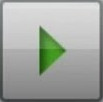
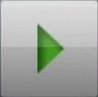
Tweak display of of interactive reels
-added hover layer to buttons via positioning
absolute div.
-fixed track height responsiveness
-tweaked reel timings and fun station flex ratio

diff --git a/interactive.css b/interactive.css
@@ -1,14 +1,46 @@
-.fs-play, .fs-stop, .sfc-play, .sfc-stop {
+.button-container {
+    display: flex;
+    gap: 10px;
+    justify-content: center;
+
+    margin-top: 30px;
+    margin-bottom: 10px;
+}
+
+.play-container, .stop-container {
     position: relative;
     width: calc(30px + 4vw);
     height: calc(30px + 4vw);
 
+    display: inline-block;
     border-radius: 10%;
 }
 
-.fs-play:hover{
-    background-color: aliceblue;
+.fs-play, .fs-stop, .sfc-play, .sfc-stop {
+    height: 100%;
+    width: 100%;    
+}
 
+.overlay {
+    background-color: white;
+    height: 100%;
+    width: 100%;
+    position: absolute;
+    top: 0;
+    right: 0;
+    left: 0;
+    bottom: 0;  
+    opacity: 0;
+    border-radius: 10%;
+}
+
+.play-container:hover .overlay, .stop-container:hover .overlay {
+    opacity: 0.3;
+}
+
+.play-container:active .overlay, .stop-container:active .overlay {
+    opacity: 0.3;
+    background-color: black;
 }
 
 .sfc, .fun-station {
@@ -18,6 +50,7 @@
     display: flex;
     flex-direction: column;
     gap: 2px;
+    margin-bottom: 50px;
 
     border: 10px solid black;
     border-radius: 10px;
@@ -50,7 +83,7 @@
     }
 
     .sfc div, .fun-station div {
-        height: calc(46vw / 10);
+        height: calc(46vw / 11.25);
     }
 
     .sfc-playhead, .fs-playhead {
@@ -167,27 +200,27 @@
 }
 
 .fs-4 .one {
-    flex: 4;
-}
-
-.fs-4 .two {
     flex: 6;
 }
 
+.fs-4 .two {
+    flex: 10;
+}
+
 .fs-4 .three {
-    flex: 2;
+    flex: 4;
 }
 
 .fs-4 .four {
-    flex: 5;
+    flex: 10;
 }
 
 .fs-4 .five {
-    flex: 4;
+    flex: 10;
 }
 
 .fs-4 .six {
-    flex: 4;
+    flex: 10;
 }
 
 .fs-5 .clip {
@@ -219,7 +252,7 @@
 }
 
 .fs-5 .five {
-    flex: 10;
+    flex: 15;
 }
 
 .fs-6 .clip {
@@ -235,7 +268,7 @@
 }
 
 .fs-6 .one {
-    flex: 2;
+    flex: 3;
 }
 
 .fs-6 .two {
@@ -247,7 +280,7 @@
 }
 
 .fs-6 .four {
-    flex: 2;
+    flex: 6;
 }
 
 .fs-6 .five {
@@ -255,7 +288,7 @@
 }
 
 .fs-6 .six {
-    flex: 2;
+    flex: 5 ;
 }
 
 .fs-7 .clip {
@@ -271,7 +304,7 @@
 }
 
 .fs-7 .one {
-    flex: 2;
+    flex: 3;
 }
 
 .fs-7 .two {
@@ -279,7 +312,7 @@
 }
 
 .fs-7 .three {
-    flex: 8;
+    flex: 15;
 }
 
 .fs-7 .four {
@@ -287,7 +320,7 @@
 }
 
 .fs-7 .five {
-    flex: 9;
+    flex: 13;
 }
 
 .fs-8 .clip {

diff --git a/index.html b/index.html
@@ -20,8 +20,14 @@
                 <h1>Interactive Reels</h1>
                 <p>I'm always excited to share the process with people, so I've created a few interactive examples of what we do in the post audio world. Have fun!</p>
             <div class="button-container">
-                <img class="fs-play" src="images/play.jpg" alt="play button">
-                <img class="fs-stop" src="images/stop.jpg" alt="stop button">
+                <div class="play-container">
+                    <img class="fs-play" src="images/play.jpg" alt="play button">
+                    <div class="fs play overlay"></div>
+                </div>
+                <div class="stop-container">
+                    <img class="fs-stop" src="images/stop.jpg" alt="stop button">
+                    <div class="fs stop overlay"></div>
+                </div>
             </div>
             <div class="interactive">
                 <div class="fs-playhead"></div>
@@ -85,8 +91,14 @@
                     </div>
             </div>
             <div class="button-container">
-                <img class="sfc-play" src="images/play.jpg" alt="play button">
-                <img class="sfc-stop" src="images/stop.jpg" alt="stop button">
+                <div class="play-container">
+                    <img class="sfc-play" src="images/play.jpg" alt="play button">
+                    <div class="stupid play overlay"></div>
+                </div>
+                <div class="stop-container">
+                    <img class="sfc-stop" src="images/stop.jpg" alt="stop button">
+                    <div class="stupid stop overlay"></div>
+                </div>
             </div>
             </div>
             <div class="sfc">

diff --git a/script.js b/script.js
@@ -14,12 +14,12 @@ function playAudio (id) {
     audio.play();
 }
 
-const sfcPlay = document.querySelector('.sfc-play');
-const sfcStop = document.querySelector('.sfc-stop');
+const sfcPlay = document.querySelector('.stupid.play.overlay');
+const sfcStop = document.querySelector('.stupid.stop.overlay');
 const sfcHead = document.querySelector('.sfc-playhead');
 
-const fsPlay = document.querySelector('.fs-play');
-const fsStop = document.querySelector('.fs-stop');
+const fsPlay = document.querySelector('.fs.play.overlay');
+const fsStop = document.querySelector('.fs.stop.overlay');
 const fsHead = document.querySelector('.fs-playhead');
 const fsReel = document.querySelector('.fun-station');
 
@@ -62,7 +62,7 @@ function moveSfcHead() {
             clearInterval(timer);
             resetPosition();
         }
-    },170);
+    },145);
 }
 
 function resetPosition() {
@@ -104,7 +104,7 @@ function moveFSHead() {
             clearInterval(timer);
             resetFSPosition();
         }
-    },210);
+    },190   );
 }
 
 function resetFSPosition() {

diff --git a/README.md b/README.md
@@ -1,10 +1,11 @@
 Practicing building a website for sound editing and design
 
 Most Recent Commit:
--change play and stop buttons to images
+-added hover layer to buttons via positioning
+absolute div.
+-fixed track height responsiveness
+-tweaked reel timings and fun station flex ratio
 
 To do:
 -play and stop buttons stop clip audio
 -fix DOM layout
--add hover and play style to buttons
-with additional transparent layer
